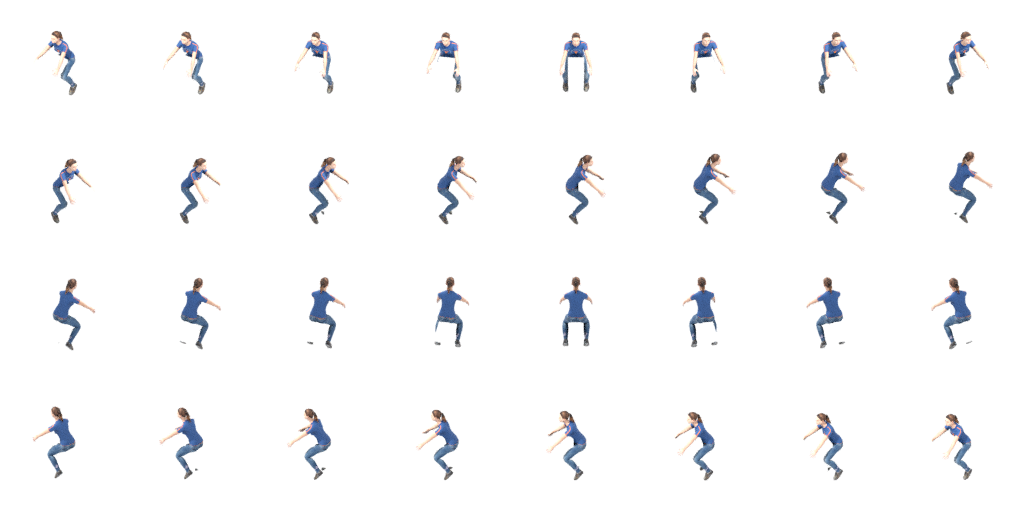
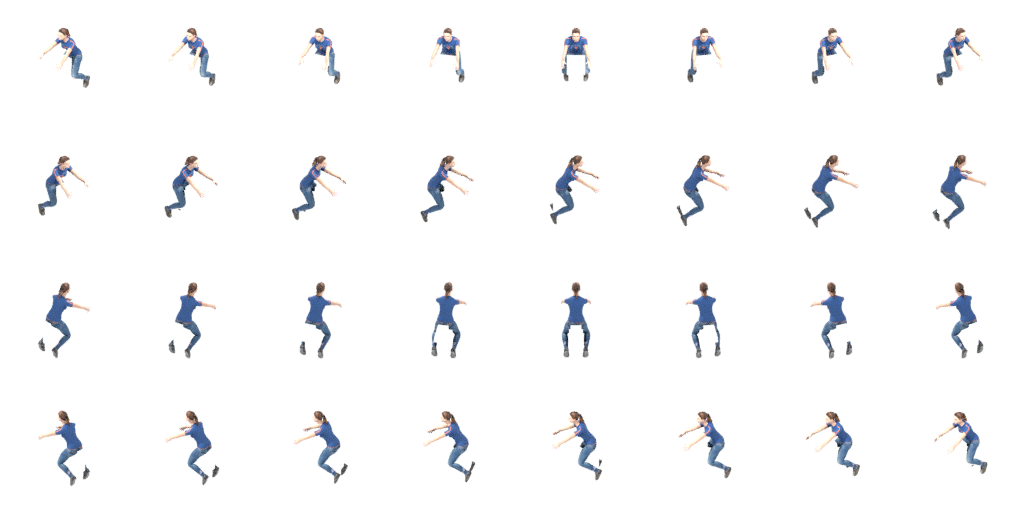
Teste 3D: andar mais suave (12 quadros), direção certa, sentado de frente e piloto no banco da moto
Claude-Session: https://claude.ai/code/session_01MeVKMuGC7xtnWKV7Lhja9Y

diff --git a/teste-3d/inj3d.js b/teste-3d/inj3d.js
@@ -1,12 +1,18 @@
 const B3={m:{p:new Image(),mo:new Image()},f:{p:new Image(),mo:new Image()}};for(const g of ['m','f']){B3[g].p.src='p3d_'+g+'.png';B3[g].mo.src='m3d_'+g+'.png'}
-window.__MOFF=window.__MOFF||0;window.__MDIR=window.__MDIR||1;window.__MSY=window.__MSY||0;
+const B3N=12,B3CIC=1.55; // 12 quadros por ciclo de 2 passos; ciclos por segundo andando (combina com a velocidade de 72)
 function b3ok(im){return im.complete&&im.naturalWidth}
+// o jogo dá a direção do passo NA TELA; converte para o chão antes de escolher a foto
+function b3dir(sa){const sx=Math.cos(sa),sy=Math.sin(sa),dx=(sx/IA+sy/IB)/2,dy=(sy/IB-sx/IA)/2,w=Math.atan2(dy,dx)*180/Math.PI;return((Math.round((90-w)/45)%8)+8)%8}
 function b3Pessoa(c,x,y,v,o){const g=v&&v.sexo===1?'f':'m',im=B3[g].p;if(!b3ok(im))return false;
- let ang=o.mv;if(ang==null)ang=(v&&v._b3a!=null)?v._b3a:Math.PI/2;else if(v)v._b3a=ang;
- let d;if(o.mv==null&&!(v&&v._b3a!=null)){d=o.back?4:(o.lado||o.perfil)?(o.dir>0?6:2):(o.dir>0?7:1)}else d=((Math.round((90-ang*180/Math.PI)/45)%8)+8)%8;
- const mov=o.mv!=null&&o.walk!=null,col=o.sit?9:mov?Math.floor((((o.walk/(2*Math.PI))%1)+1)%1*8)%8:8,k=.5*(o.s||PS)/PS;
+ const st=v||{};let d;
+ if(o.sit)d=o.frente?0:o.back?4:(o.dir>0?6:2);
+ else if(o.mv!=null){d=b3dir(o.mv);st._b3d=d}
+ else d=st._b3d!=null?st._b3d:0;
+ const mov=o.mv!=null&&o.walk!=null&&!o.sit;
+ if(mov){const t=performance.now()/1000;st._b3p=((st._b3p||0)+Math.min(.1,t-(st._b3t||t))*B3CIC)%1;st._b3t=t}else{st._b3t=null}
+ const col=o.sit?13:mov?Math.floor(st._b3p*B3N)%B3N:12,k=.5*(o.s||PS)/PS;
  c.save();if(!o.sit){c.fillStyle='rgba(0,0,0,.2)';c.beginPath();c.ellipse(x,y,11*k*2,4.5*k*2,0,0,7);c.fill()}
  c.drawImage(im,col*128,d*128,128,128,x-64*k,y-102.2*k,128*k,128*k);c.restore();return true}
 function b3Moto(c,x,y,v,th,ang){const g=v&&v.sexo===1?'f':'m',im=B3[g].mo;if(!b3ok(im))return false;
- const N=32,i=((Math.round((Math.PI+ang)/(Math.PI*2/N)))%N+N)%N,j=(((i*window.__MDIR+window.__MOFF)%N)+N)%N,k=.5;
- c.drawImage(im,(j%8)*128,Math.floor(j/8)*128,128,128,x-64*k,y-102.2*k-window.__MSY,128*k,128*k);return true}
+ const N=32,j=((Math.round((Math.PI+ang)/(Math.PI*2/N)))%N+N)%N,k=.5;
+ c.drawImage(im,(j%8)*128,Math.floor(j/8)*128,128,128,x-64*k,y-102.2*k,128*k,128*k);return true}

diff --git a/teste-3d/mh2.py b/teste-3d/mh2.py
@@ -54,20 +54,12 @@ def bracos(r,fw=0,cot=0):
     if cot:
         for sd,sg in (('l',1),('r',-1)):p=r.pose.bones['lowerarm_'+sd];p.rotation_quaternion=p.rotation_quaternion@Quaternion(Vector(CAX),math.radians(cot*CS*sg))
     for sd,sg in (('l',1),('r',-1)):p=r.pose.bones['lowerarm_'+sd];p.rotation_quaternion=p.rotation_quaternion@Quaternion((0,1,0),math.radians(PR*sg))
-def andar(r,t):
-    zera(r);s=math.sin(t*2*math.pi);bracos(r,0,6+6*max(0,s))
-    for sd,sg in (('l',1),('r',-1)):
-        rot(r,'thigh_'+sd,(1,0,0),-24*s*sg);rot(r,'calf_'+sd,(1,0,0),32*max(0,math.sin(t*2*math.pi+(0 if sg>0 else math.pi)+1.7)))
-        rot(r,'upperarm_'+sd,(1,0,0),30*s*sg)
-    r.pose.bones['pelvis'].location=(0,0,0)
 from mathutils import Matrix
 def _upd():bpy.context.view_layer.update()
 def aim(r,n,d):
-    """aponta o osso n na direção d (espaço do esqueleto) com a menor rotação possível a partir da pose de descanso"""
     _upd();pb=r.pose.bones[n];rest=pb.bone.matrix_local.to_3x3();rd=(rest@Vector((0,1,0))).normalized()
     q=rd.rotation_difference(Vector(d).normalized());M=(q.to_matrix()@rest).to_4x4();M.translation=pb.head.copy();pb.matrix=M;_upd()
 def ik2(r,a,b,alvo,polo):
-    """braço/perna de 2 ossos até o alvo (espaço do esqueleto); polo = para onde aponta o cotovelo/joelho"""
     _upd();S=r.pose.bones[a].head.copy();L1=r.pose.bones[a].bone.length;L2=r.pose.bones[b].bone.length
     T=Vector(alvo);v=T-S;d=min(max(v.length,1e-4),L1+L2-1e-4);u=v.normalized()
     x=(L1*L1+d*d-L2*L2)/(2*d);h=math.sqrt(max(L1*L1-x*x,0));p=Vector(polo);p=(p-u*p.dot(u)).normalized()
@@ -75,17 +67,23 @@ def ik2(r,a,b,alvo,polo):
 def W2A(r,w):return r.matrix_world.inverted()@Vector(w)
 def bracos_baixo(r,swing=0,cot=12,abre=.06):
     for sd,sx in (('l',1),('r',-1)):
-        a=math.radians(swing*sx if False else swing);c=math.radians(cot)
-        sw=swing*(1 if sd=='l' else -1);a=math.radians(sw)
+        sw=swing*(1 if sd=='l' else -1);a=math.radians(sw);c=math.radians(cot)
         aim(r,'upperarm_'+sd,(sx*abre,-math.sin(a),-math.cos(a)))
         aim(r,'lowerarm_'+sd,(sx*abre*.6,-math.sin(a+c),-math.cos(a+c)))
 def andar(r,t):
-    zera(r);s=math.sin(t*2*math.pi)
+    """caminhada suave: passada curta, joelho dobra só quando a perna vai à frente, quadril sobe/desce e gira de leve"""
+    zera(r);ph=t*2*math.pi;s_=math.sin(ph);c_=math.cos(ph)
     for sd,sg in (('l',1),('r',-1)):
-        rot(r,'thigh_'+sd,(1,0,0),-24*s*sg);rot(r,'calf_'+sd,(1,0,0),32*max(0,math.sin(t*2*math.pi+(0 if sg>0 else math.pi)+1.7)))
+        sw=s_*sg;fw=max(0,c_*sg)
+        rot(r,'thigh_'+sd,(1,0,0),-19*sw)
+        rot(r,'calf_'+sd,(1,0,0),5+30*fw**1.4)
+        rot(r,'foot_'+sd,(1,0,0),-6*fw+4*max(0,-sw))
+    rot(r,'pelvis',(0,0,1),3.5*s_);rot(r,'spine_02',(0,0,1),-4.5*s_);rot(r,'spine_01',(1,0,0),2.5)
+    try:r.location.z=BASEZ-.012+.012*math.cos(2*ph)
+    except NameError:pass
     for sd,sg in (('l',-1),('r',1)):
-        sw=24*s*sg;a=math.radians(sw);c=math.radians(10+8*max(0,sw)/24);sx=1 if sd=='l' else -1
-        aim(r,'upperarm_'+sd,(sx*.06,-math.sin(a),-math.cos(a)));aim(r,'lowerarm_'+sd,(sx*.04,-math.sin(a+c),-math.cos(a+c)))
+        sw=11*s_*sg;a=math.radians(sw);c=math.radians(12+7*max(0,s_*sg));sx=1 if sd=='l' else -1
+        aim(r,'upperarm_'+sd,(sx*.07,-math.sin(a),-math.cos(a)));aim(r,'lowerarm_'+sd,(sx*.05,-math.sin(a+c),-math.cos(a+c)))
 def parado(r):zera(r);bracos_baixo(r,0,10)
 def sentar(r):
     zera(r)
@@ -109,11 +107,31 @@ def cam(tz=.9,az=45):
     a=math.radians(az);e=math.radians(60);d=10;C.rotation_euler=(e,0,a);C.location=Vector((math.sin(a)*math.sin(e)*d,-math.cos(a)*math.sin(e)*d,math.cos(e)*d+tz))
 GEN=os.environ.get('GEN','m');TESTE=os.environ.get('TESTE')
 r=pessoa(1.0,'young_caucasian_male','short02','male_casualsuit02','shoes01','eyebrow001') if GEN=='m' else pessoa(0.0,'young_caucasian_female','ponytail01','female_casualsuit01','shoes02','eyebrow010')
-arm=r;base=arm.location.copy()
+arm=r;base=arm.location.copy();BASEZ=base.z
 def shot(n):bpy.context.view_layer.update();sc.render.filepath=f'{OUT}/{GEN}_{n}.png';bpy.ops.render.render(write_still=True)
 cam()
 SHEET=os.environ.get('SHEET')
-MG=(.3,-.5,.9);MP=(.18,.06,.4);MSEAT=.9;MY=.1   # moto do jogo: guidão, pedaleira, altura do quadril, recuo do banco
+MG=(.28,-.44,.94);MP=(.17,.4,.41);MSEAT=.89;MY=.28   # moto do jogo: guidão, pedaleira, altura do quadril, recuo do banco
+WT=os.environ.get('WT')
+if WT:
+    sc.render.resolution_x=sc.render.resolution_y=300;C.data.ortho_scale=2.2
+    def camv(az,el=80):
+        a=math.radians(az);e=math.radians(el);C.rotation_euler=(e,0,a);C.location=Vector((math.sin(a)*math.sin(e)*10,-math.cos(a)*math.sin(e)*10,math.cos(e)*10+.85))
+    if WT=='walk':
+        for az in (90,0):
+            camv(az)
+            for f in range(0,12,2):arm.location=base.copy();andar(r,f/12);shot(f'wt_az{az}_{f:02d}')
+    if WT=='moto':
+        wht=mat((.85,.86,.88));blk=mat((.04,.04,.05))
+        def cb(l,s_,m_,rx=0):
+            bpy.ops.mesh.primitive_cube_add(location=l,rotation=(math.radians(rx),0,0));o=bpy.context.object;o.scale=s_;o.data.materials.append(m_);bb=o.modifiers.new('b','BEVEL');bb.width=.04;bb.segments=3
+        for y in (-.7,.68):
+            bpy.ops.mesh.primitive_torus_add(location=(0,y,.3),rotation=(0,math.radians(90),0),major_radius=.25,minor_radius=.07);bpy.context.object.data.materials.append(blk)
+        cb((0,-.18,.88),(.17,.22,.09),wht);cb((0,-.62,.86),(.13,.16,.17),wht,22);cb((0,-.4,.58),(.13,.3,.18),wht);cb((0,.22,.79),(.13,.18,.03),blk);cb((0,.58,.86),(.1,.17,.05),wht,-10);cb((0,-.44,.94),(.28,.015,.015),blk)
+        for x in (-.17,.17):cb((x,.4,.41),(.05,.02,.012),blk)
+        for az in (90,0,45,135):
+            camv(az,75);zera(r);arm.location=base.copy();_upd();hip=(arm.matrix_world@arm.pose.bones['thigh_l'].head).z;arm.location.z=base.z+(MSEAT-hip);arm.location.y=base.y+MY;pilotar(r,MG,MP);shot(f'mt_az{az}')
+    raise SystemExit
 if SHEET:
     sc.render.resolution_x=sc.render.resolution_y=128;sc.cycles.samples=16;C.data.ortho_scale=2.32
     def camk(az):
@@ -121,13 +139,13 @@ if SHEET:
     def sh(n):_upd();sc.render.filepath=f'{OUT}/{n}.png';bpy.ops.render.render(write_still=True)
     for k in range(8 if not os.environ.get('SOMOTO') else 0):
         camk(45-k*45)
-        for f in range(8):arm.location=base;andar(r,f/8);sh(f'w{k}_{f}')
-        arm.location=base;parado(r);sh(f'i{k}')
+        for f in range(12):arm.location=base.copy();andar(r,f/12);sh(f'w{k}_{f}')
+        arm.location=base.copy();parado(r);sh(f'i{k}')
         zera(r);arm.location=base;_upd();hip=(arm.matrix_world@arm.pose.bones['thigh_l'].head).z;arm.location.z=base.z+(.5-hip);sentar(r);sh(f's{k}')
     hold=bpy.data.materials.new('hold');hold.use_nodes=True;nt=hold.node_tree;[nt.nodes.remove(n) for n in list(nt.nodes)]
     ho=nt.nodes.new('ShaderNodeHoldout');out=nt.nodes.new('ShaderNodeOutputMaterial');nt.links.new(ho.outputs[0],out.inputs[0])
     hob=[]
-    for (l,s_,rx) in (((0,-.28,.86),(.15,.24,.11),0),((0,-.62,.86),(.14,.16,.16),25),((0,-.45,.55),(.13,.32,.17),0),((0,.0,.62),(.13,.3,.14),0),((0,.55,.86),(.1,.22,.06),-10)):
+    for (l,s_,rx) in (((0,-.18,.88),(.17,.22,.09),0),((0,-.6,.86),(.14,.16,.17),22),((0,-.4,.58),(.13,.3,.18),0),((0,.12,.6),(.13,.3,.16),0),((0,.62,.86),(.1,.2,.05),-10)):
         bpy.ops.mesh.primitive_cube_add(location=l,rotation=(math.radians(rx),0,0));o=bpy.context.object;o.scale=s_;o.data.materials.append(hold);bb=o.modifiers.new('b','BEVEL');bb.width=.05;bb.segments=3;hob.append(o)
     for k in range(32):
         camk(45-k*11.25)
